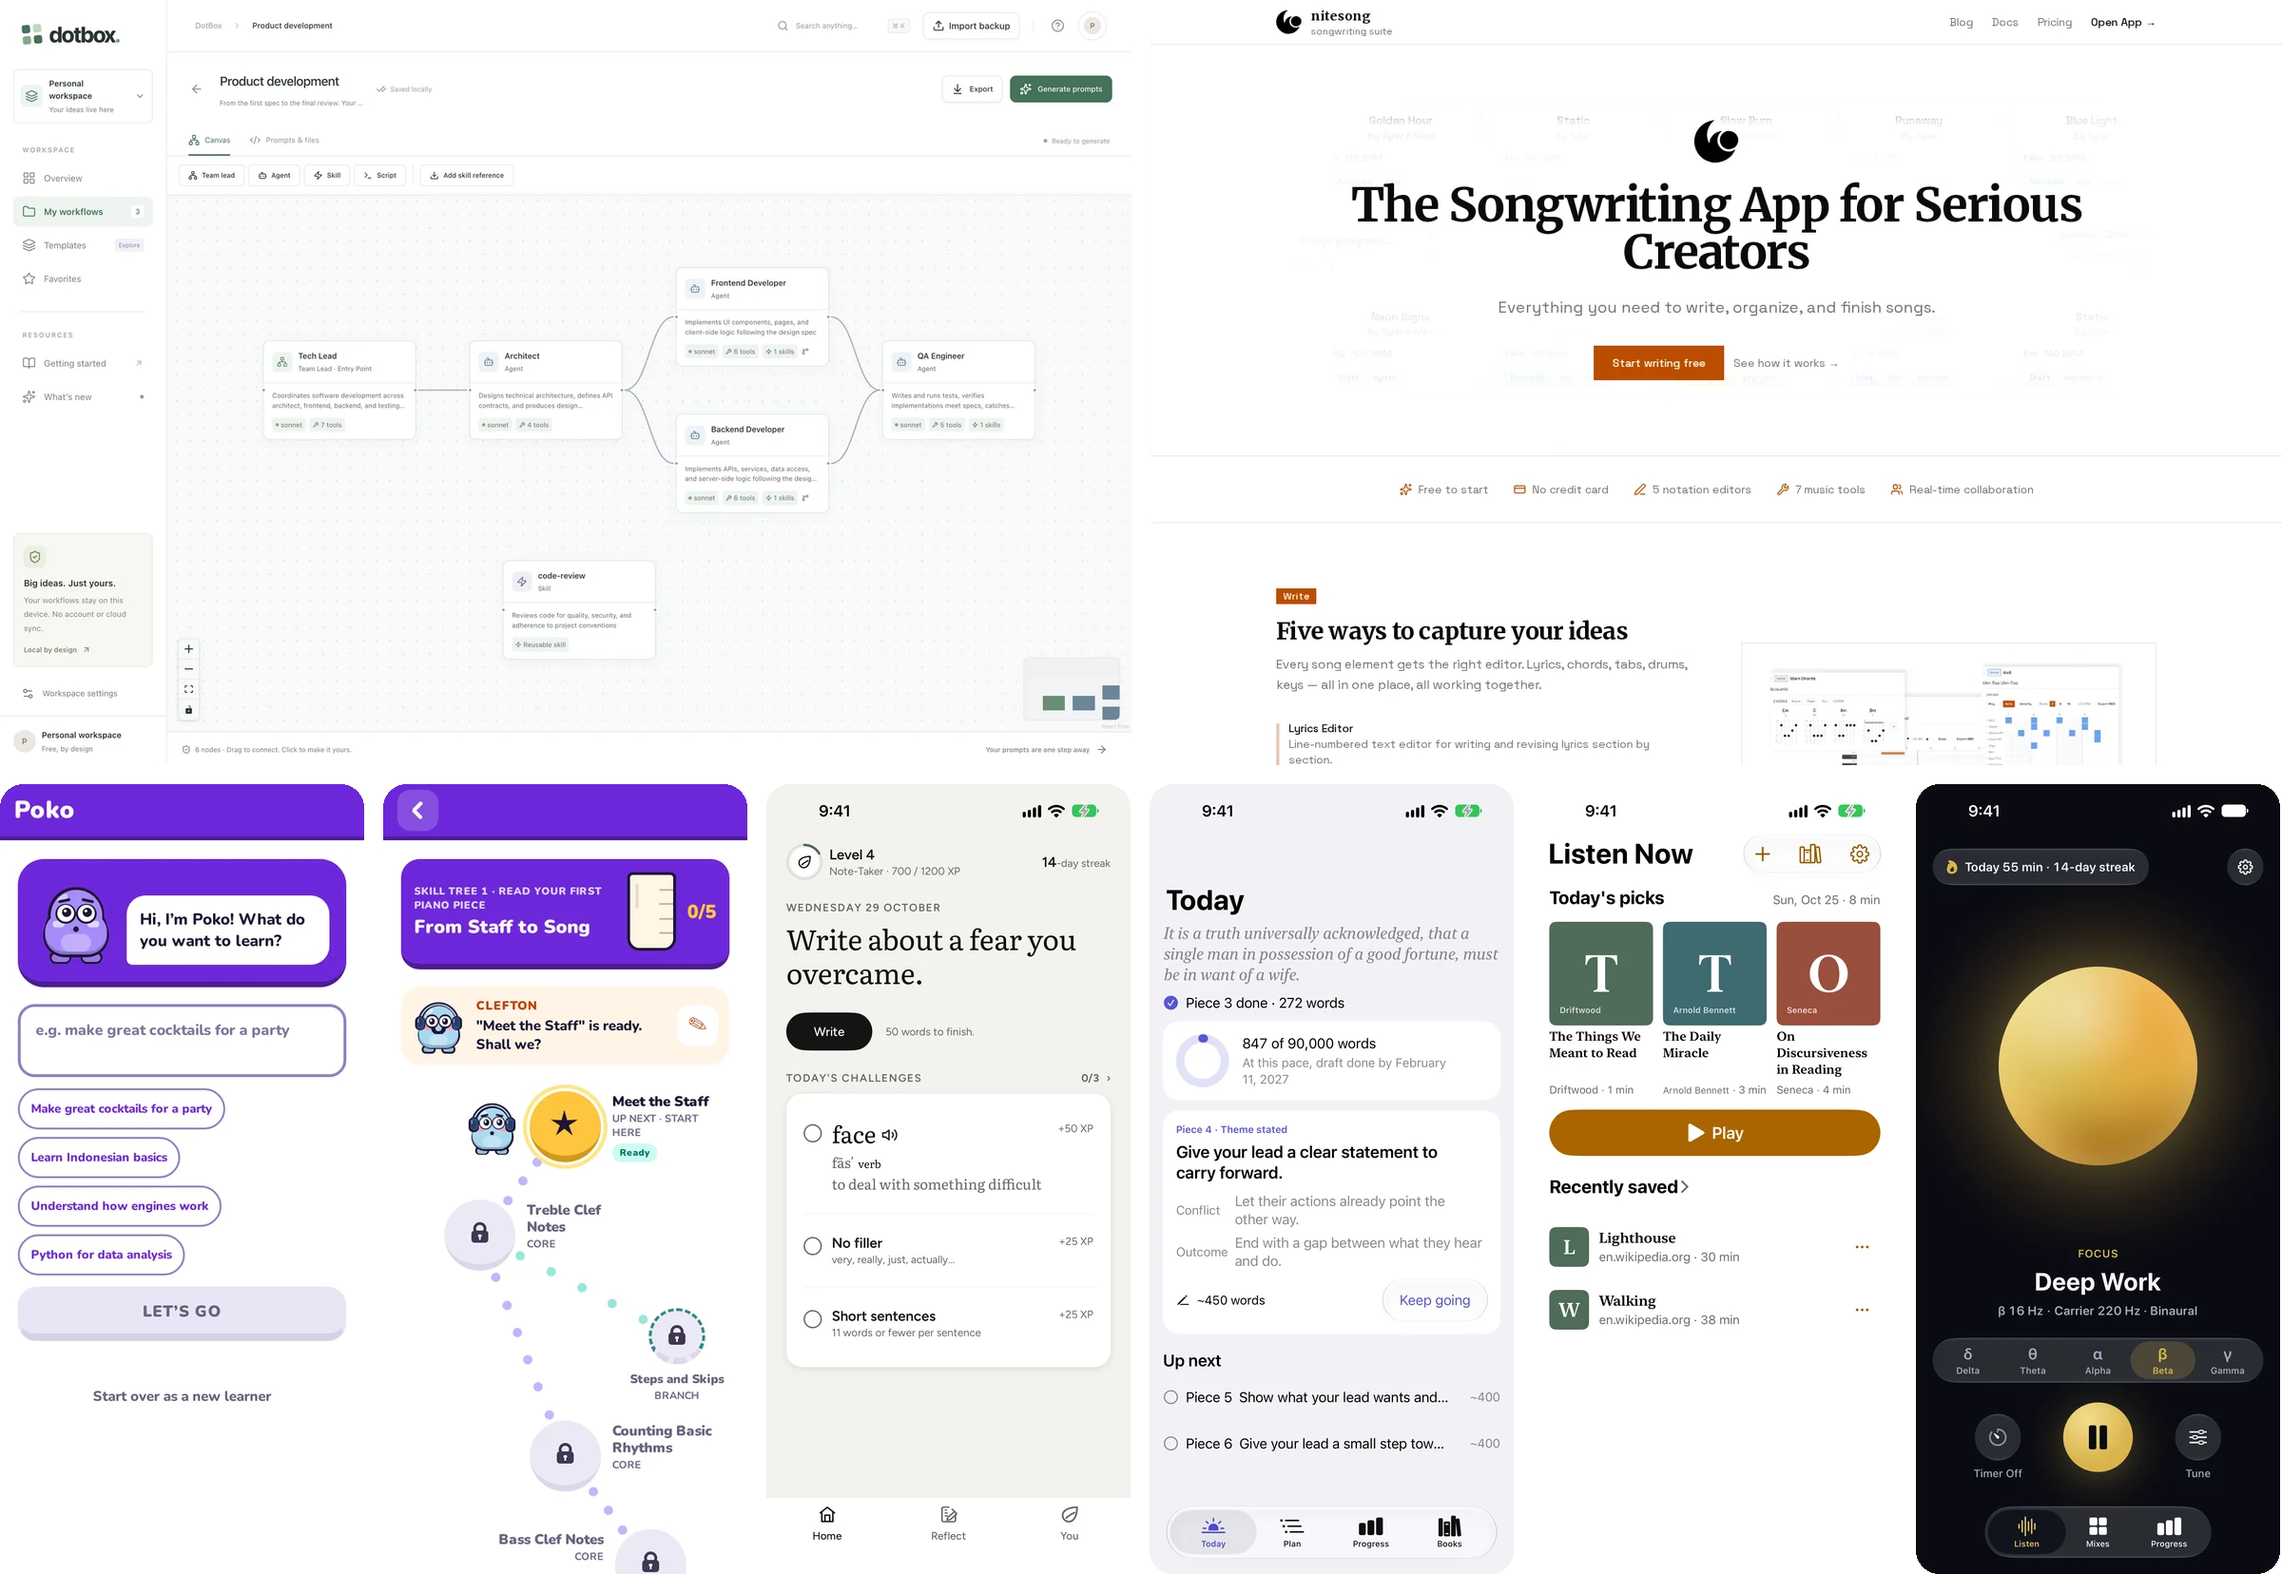
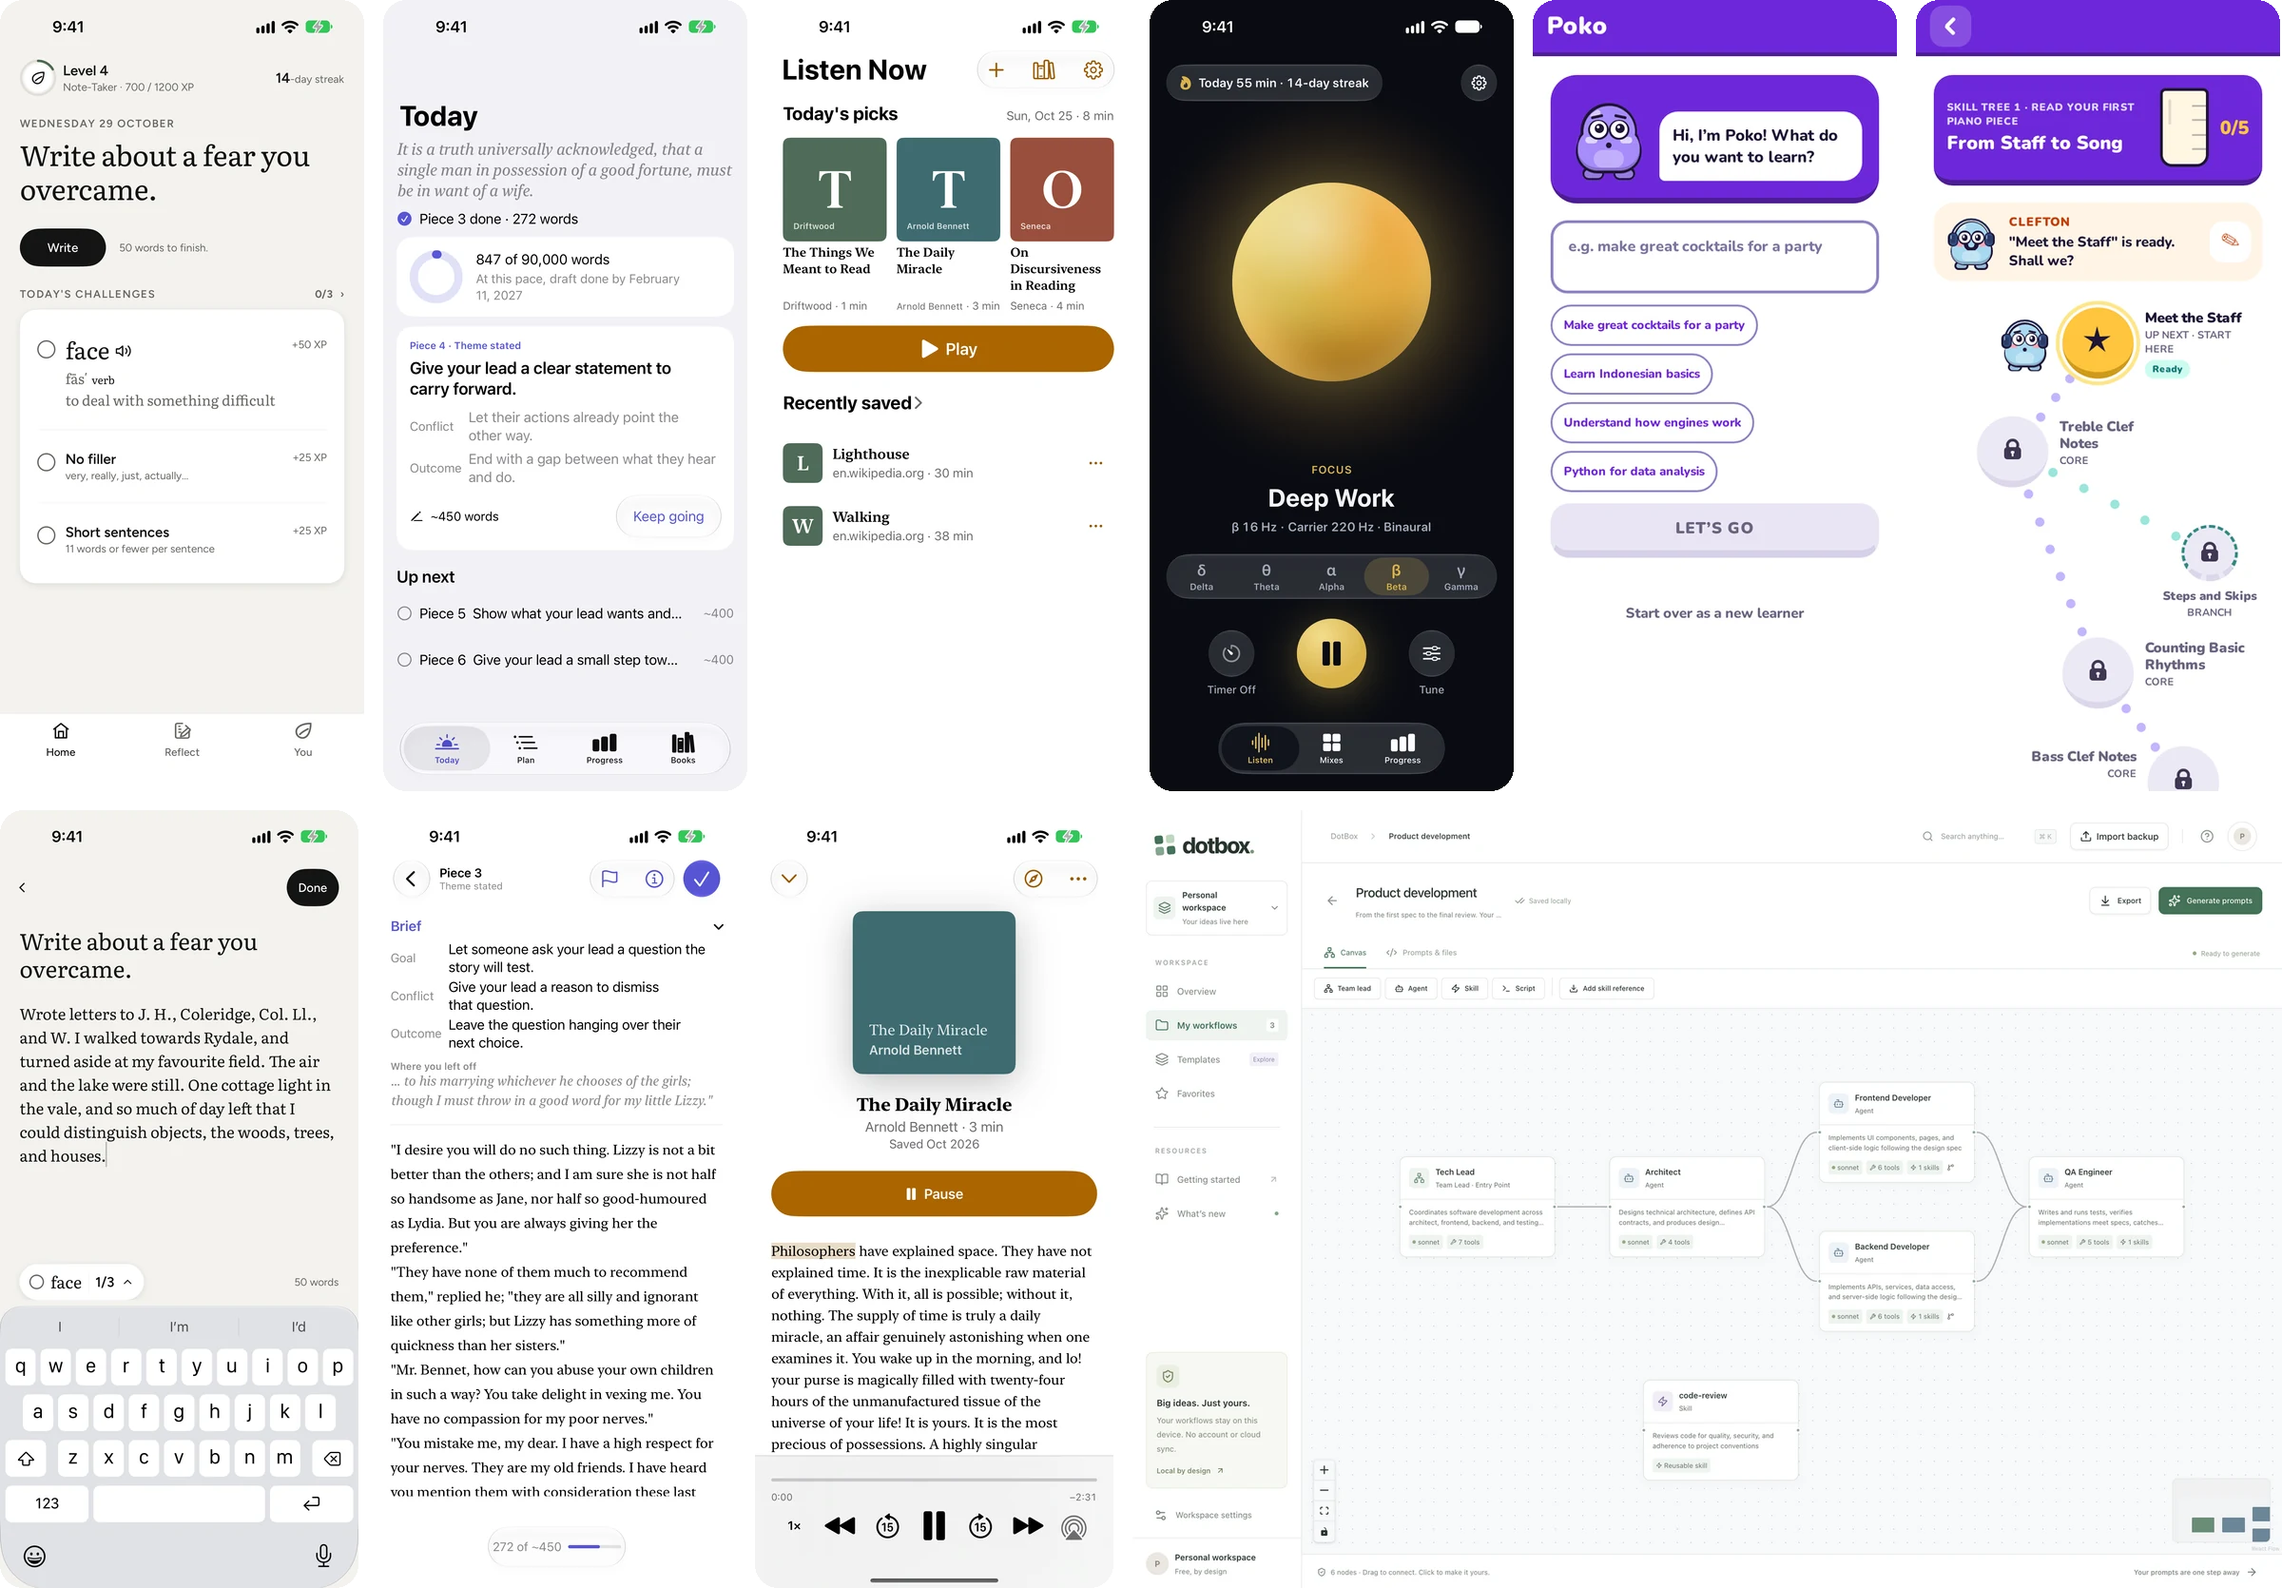
Profile README: lead with iOS apps, drop nitesong

diff --git a/README.md b/README.md
@@ -12,16 +12,15 @@ Integration and AI platform engineer in Bloomington, Indiana. By day I connect E
 </td></tr>
 <tr><td>
 
-<img src="assets/projects.webp" alt="Screenshots of DotBox, nitesong, Poko, Small Pages, Chapterwise, Driftwood and FocusTones">
+<img src="assets/projects.webp" alt="Screenshots of Small Pages, Chapterwise, Driftwood, FocusTones, Poko and DotBox">
 
 </td></tr>
 <tr><td>
 
 **things i've built**<br>
-<a href="https://dotbox.zip/"><b>DotBox</b></a> · design AI agent teams on a canvas, then generate their setup prompts<br>
-<a href="https://nitesong.io/"><b>nitesong</b></a> · a songwriting suite, built and run end to end<br>
+<img src="assets/small-pages-icon.png" width="16" height="16" alt=""> <a href="https://apps.tyl.sh/small-pages/"><b>Small Pages</b></a> · <img src="assets/chapterwise-icon.png" width="16" height="16" alt=""> <a href="https://apps.tyl.sh/chapterwise/"><b>Chapterwise</b></a> · <img src="assets/driftwood-icon.png" width="16" height="16" alt=""> <a href="https://apps.tyl.sh/driftwood/"><b>Driftwood</b></a> · <img src="assets/focustones-icon.png" width="16" height="16" alt=""> <a href="https://apps.tyl.sh/focustones/"><b>FocusTones</b></a><br>quiet iPhone apps from <a href="https://apps.tyl.sh/">Tyl Softworks</a><br>
 <a href="https://github.com/tylercyert/poko"><b>Poko</b></a> · adaptive learning app, Wildcard Segment winner at Indy Init 2026<br>
-<img src="assets/small-pages-icon.png" width="16" height="16" alt=""> <a href="https://apps.tyl.sh/small-pages/"><b>Small Pages</b></a> · <img src="assets/chapterwise-icon.png" width="16" height="16" alt=""> <a href="https://apps.tyl.sh/chapterwise/"><b>Chapterwise</b></a> · <img src="assets/driftwood-icon.png" width="16" height="16" alt=""> <a href="https://apps.tyl.sh/driftwood/"><b>Driftwood</b></a> · <img src="assets/focustones-icon.png" width="16" height="16" alt=""> <a href="https://apps.tyl.sh/focustones/"><b>FocusTones</b></a> · quiet iPhone apps from <a href="https://apps.tyl.sh/">Tyl Softworks</a>
+<a href="https://dotbox.zip/"><b>DotBox</b></a> · design AI agent teams on a canvas, then generate their setup prompts<br>
 
 </td></tr>
 <tr><td>
